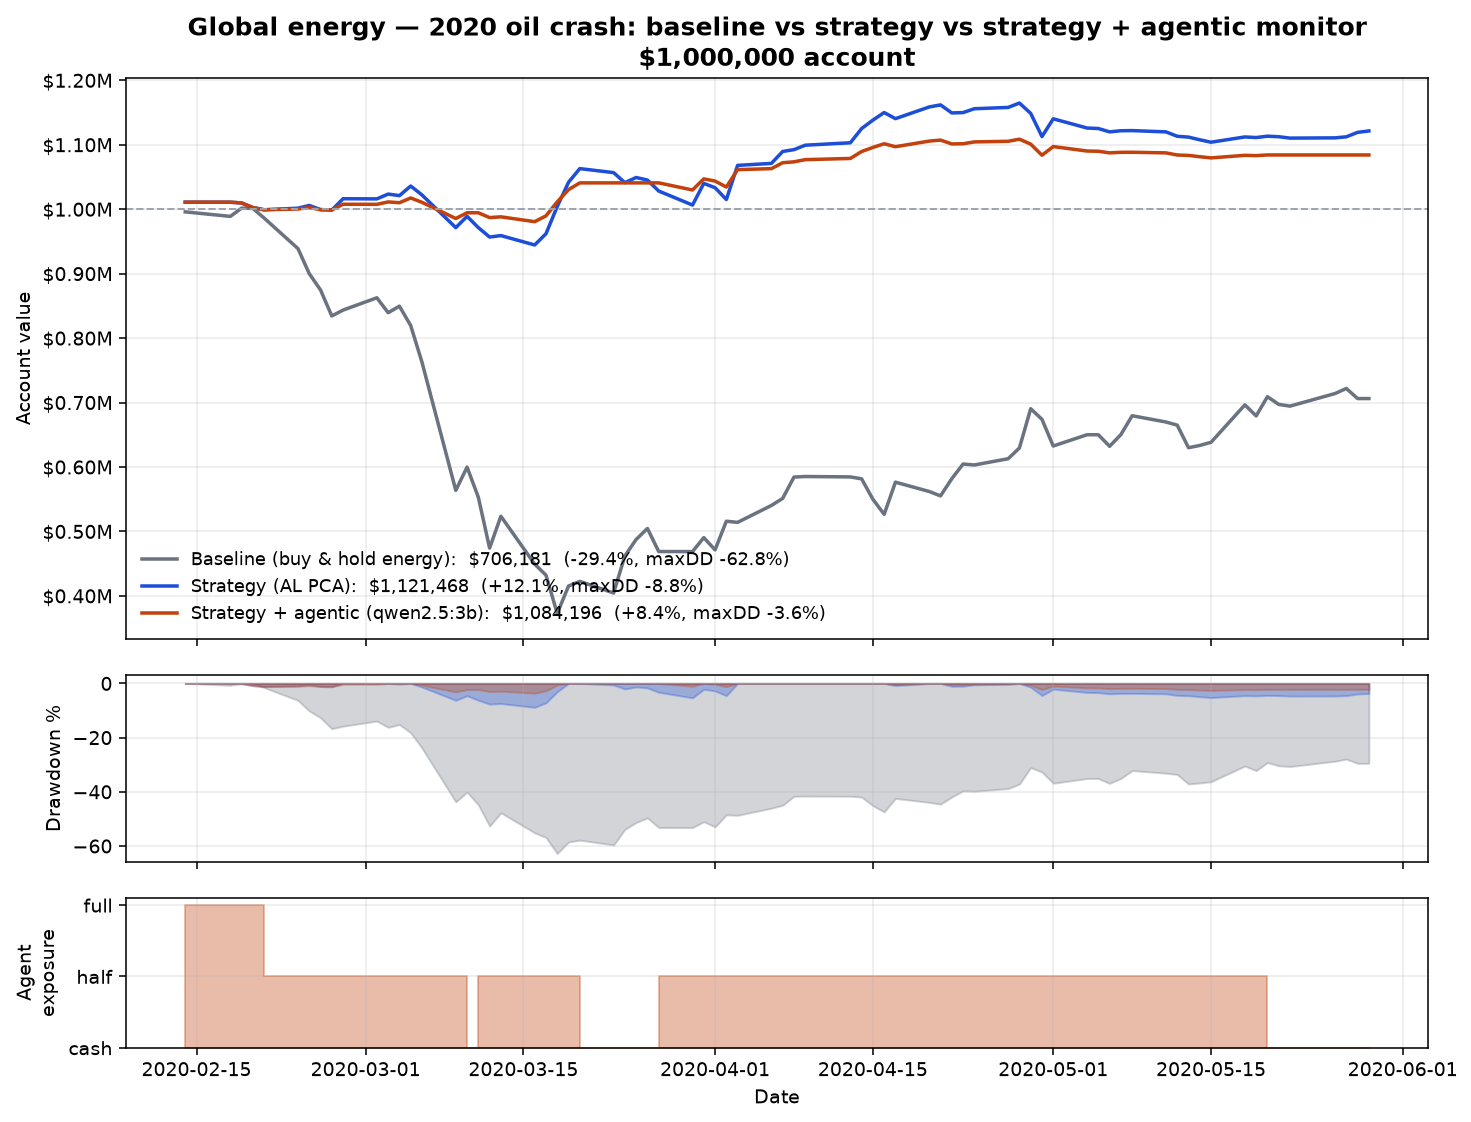
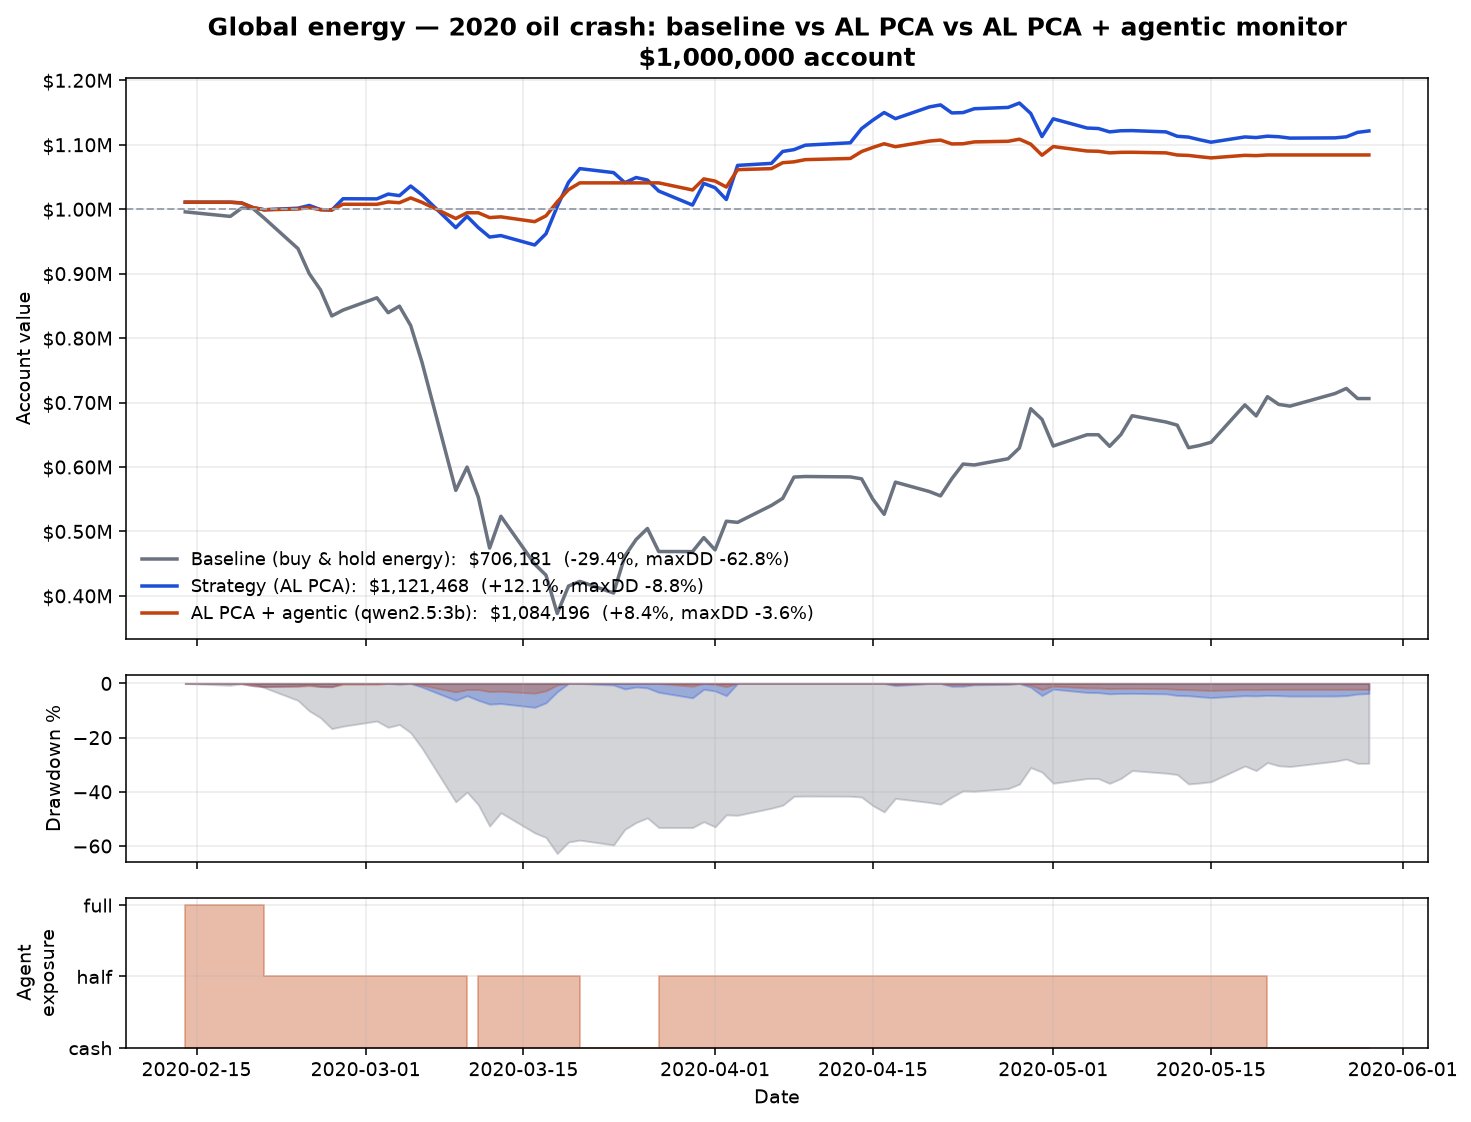
feat(energy): JT momentum + agentic run & 3-way chart (parametrized plot by strategy)
qwen2.5:3b agentic run on JT_MOM/oil_crash_2020: 14 assessments, ALERT on the crash
onset day (2020-03-09). Momentum 3-way ($1M):
  baseline:            -29.4%, maxDD -62.8%
  JT momentum:          +1.9%, maxDD -28.5%
  JT momentum+agentic: +13.7%, maxDD -9.8%  (agent improved BOTH return and drawdown)
Illustrates H3 (agentic advantage differs by strategy): momentum benefits more than AL PCA.

Changed region(s): [[0.1224, 0.0, 0.6424, 0.0312], [0.1224, 0.5303, 0.5506, 0.5615], [0.673, 0.0, 0.9177, 0.0312]]

diff --git a/monitoring/scripts/plot_energy_agentic_3way.py b/monitoring/scripts/plot_energy_agentic_3way.py
@@ -11,6 +11,7 @@ Renders monitoring/results/energy_pnl_3way.png.
 """
 from __future__ import annotations
 
+import argparse
 import json
 from pathlib import Path
 
@@ -23,16 +24,27 @@ import pandas as pd
 REPO = Path(__file__).resolve().parents[2]
 START_CAP = 1_000_000
 WIN_START, WIN_END = "2020-02-14", "2020-05-29"
-AL_CURVE = REPO / "Stat Arb" / "statsArb-dev" / "results" / "equity_curve_energy_al.csv"
-AGENTIC_LOG = REPO / "monitoring" / "results" / "agentic_oil_crash_2020_AL_PCA.jsonl"
-OUT = REPO / "monitoring" / "results" / "energy_pnl_3way.png"
+
+#: per-strategy curve file + display label
+CURVES = {
+    "AL_PCA": (REPO / "Stat Arb" / "statsArb-dev" / "results" / "equity_curve_energy_al.csv",
+               "AL PCA"),
+    "JT_MOM": (REPO / "XSectional" / "results" / "equity_curve_energy.csv",
+               "JT momentum"),
+}
 
 #: monitor state -> fraction of capital deployed
 EXPOSURE = {"NORMAL": 1.0, "WATCH": 0.5, "ALERT": 0.0}
 
+# Set by main() from --strategy.
+STRATEGY = "AL_PCA"
+AGENTIC_LOG = REPO / "monitoring" / "results" / "agentic_oil_crash_2020_AL_PCA.jsonl"
+OUT = REPO / "monitoring" / "results" / "energy_pnl_3way.png"
+
 
 def _strategy_returns() -> pd.Series:
-    df = pd.read_csv(AL_CURVE, index_col=0, parse_dates=True).sort_index()
+    curve = CURVES[STRATEGY][0]
+    df = pd.read_csv(curve, index_col=0, parse_dates=True).sort_index()
     r = df["port_ret"].astype(float)
     return r.loc[WIN_START:WIN_END]
 
@@ -68,16 +80,26 @@ def _to_account(returns: pd.Series) -> pd.Series:
 
 
 def main() -> None:
+    global STRATEGY, AGENTIC_LOG, OUT
+    ap = argparse.ArgumentParser()
+    ap.add_argument("--strategy", default="AL_PCA", choices=list(CURVES))
+    args = ap.parse_args()
+    STRATEGY = args.strategy
+    AGENTIC_LOG = REPO / "monitoring" / "results" / f"agentic_oil_crash_2020_{STRATEGY}.jsonl"
+    suffix = "" if STRATEGY == "AL_PCA" else f"_{STRATEGY}"
+    OUT = REPO / "monitoring" / "results" / f"energy_pnl_3way{suffix}.png"
+
     strat_r = _strategy_returns()
     idx = strat_r.index
     expo = _agent_exposure(idx)
     agentic_r = strat_r * expo
     base_r = _baseline_returns(idx)
 
+    slabel = CURVES[STRATEGY][1]
     curves = {
         "Baseline (buy & hold energy)": ("#6b7280", _to_account(base_r)),
-        "Strategy (AL PCA)": ("#1d4ed8", _to_account(strat_r)),
-        "Strategy + agentic (qwen2.5:3b)": ("#c2410c", _to_account(agentic_r)),
+        f"Strategy ({slabel})": ("#1d4ed8", _to_account(strat_r)),
+        f"{slabel} + agentic (qwen2.5:3b)": ("#c2410c", _to_account(agentic_r)),
     }
 
     fig, (ax1, ax2, ax3) = plt.subplots(
@@ -92,7 +114,7 @@ def main() -> None:
         ax2.fill_between(acct.index, (acct/acct.cummax()-1)*100, 0, color=color, alpha=0.30)
 
     ax1.axhline(START_CAP, color="#9ca3af", lw=1.0, ls="--")
-    ax1.set_title("Global energy — 2020 oil crash: baseline vs strategy vs strategy + agentic monitor\n"
+    ax1.set_title(f"Global energy — 2020 oil crash: baseline vs {slabel} vs {slabel} + agentic monitor\n"
                   "$1,000,000 account", fontsize=13, fontweight="bold")
     ax1.set_ylabel("Account value"); ax1.grid(True, alpha=0.25)
     ax1.yaxis.set_major_formatter(mticker.FuncFormatter(lambda x, _: f"${x/1e6:.2f}M"))
